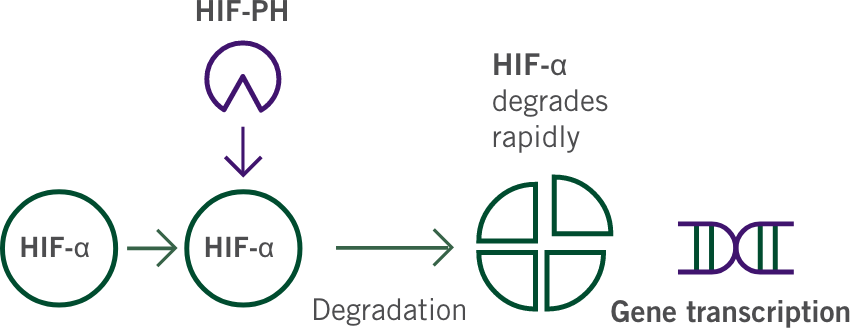
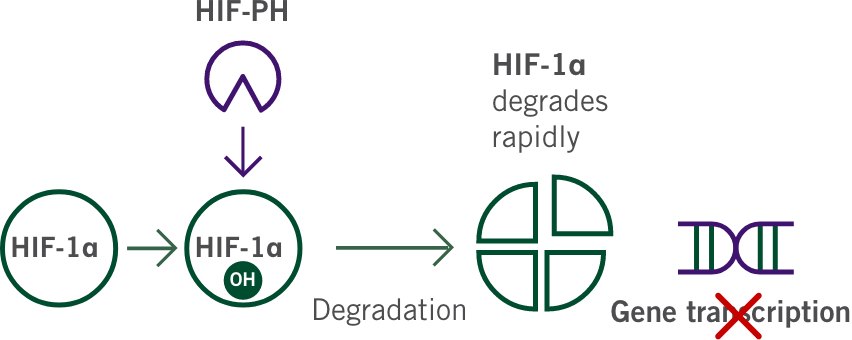
fix: dev3 client feedback

diff --git a/dev3/client/src/pages/hlf/hlf.tsx b/dev3/client/src/pages/hlf/hlf.tsx
@@ -20,10 +20,11 @@ export default function LivingAtHigh() {
       <Main>
         <Left>
           <Animation>
-            <h3>
+            <h3 className="doubleMarginBottom">
               The HIF (hypoxia-inducible factor) pathway plays a central role in
               erythropoiesis<sup>1,2</sup>
             </h3>
+            <h3>HIF-PH inhibition:</h3>
             <p>
               <ul>
                 <li>
@@ -40,14 +41,17 @@ export default function LivingAtHigh() {
             </p>
             <p>
               In normoxic conditions, the HIF pathway is not activated and the
-              HIF-α subunit is rapidly degraded via HIF prolyl-hydroxylase
+              HIF-1α subunit is rapidly degraded via HIF prolyl-hydroxylase
               (HIF-PH):<sup>3</sup>
             </p>
           </Animation>
           <Animation>
             <h3>Normal oxygen</h3>
             <div>
-              <img src={`${imgPath}/left-content.png`} className='leftContentImg'/>
+              <img
+                src={`${imgPath}/left-content.png`}
+                className="leftContentImg"
+              />
             </div>
           </Animation>
           <Animation className="smaller">
@@ -74,20 +78,20 @@ export default function LivingAtHigh() {
         </Left>
         <Right>
           <FlexRow>
-            <Left>
-              <Animation>
-                <h3>Hypoxia</h3>
-                <p>
-                  In hypoxic conditions, the HIF pathway is activated: the HIF-α
-                  subunit is not degraded, allowing dimerisation with the HIF-ß
-                  subunit and so inducing the transcription and translation of
-                  target hypoxia response genes involved in erythropoiesis,
-                  including:<sup>3-6</sup>
-                </p>
-              </Animation>
-            </Left>
-            <Right>
-              <Animation>
+            <Animation>
+              <h3>Hypoxia</h3>
+              <p>
+                In hypoxic conditions, the HIF pathway is activated: the HIF-1α
+                subunit is not degraded, allowing dimerisation with the HIF-1ß
+                subunit and so inducing the transcription and translation of
+                target hypoxia response genes involved in erythropoiesis,
+                including:<sup>3-6</sup>
+              </p>
+            </Animation>
+          </FlexRow>
+          <FlexRow>
+            <Animation>
+              <Left>
                 <div className="rectangle text1">Erythropoietin</div>
                 <img src={`${imgPath}/plus.png`} />
                 <div className="rectangle text2">
@@ -97,8 +101,8 @@ export default function LivingAtHigh() {
                 <div className="rectangle text3">
                   Genes involved in downregulating hepcidin levels
                 </div>
-              </Animation>
-            </Right>
+              </Left>
+            </Animation>
           </FlexRow>
           <FlexRow>
             <p>

diff --git a/dev3/client/src/pages/hlf/hlf.style.ts b/dev3/client/src/pages/hlf/hlf.style.ts
@@ -55,6 +55,10 @@ export const Main = styled.main`
     margin-bottom: calc(20px * var(--scale-y)); // 1rem;
   }
 
+  & .doubleMarginBottom {
+    margin-bottom: calc(40px * var(--scale-y)); // 1rem;
+  }
+
   & sup {
     font-size: x-small;
   }
@@ -97,9 +101,9 @@ export const Main = styled.main`
 
   & > div:last-child {
     & .rectangle {
-      background-size: calc(342px * var(--scale-x)) calc(183px * var(--scale-y)); // 342px 183px;
+      background-size: calc(280px * var(--scale-x)) calc(183px * var(--scale-y)); // 342px 183px;
       background-color: #40146e;
-      width: calc(342px * var(--scale-x));
+      width: calc(280px * var(--scale-x));
       height: calc(183px * var(--scale-y));
       display: flex;
       justify-content: center;
@@ -108,6 +112,11 @@ export const Main = styled.main`
       padding: 0 calc(20px * var(--scale-x)); // 0 1rem;
       animation: ${fadeUp} 1s forwards;
       opacity: 0;
+      font-family: "Trade Gothic LT Std Extended";
+      font-size: calc(24px * var(--scale-x));
+      line-height: calc(26px * var(--scale-y));
+      color: #fff;
+      text-align: center;
 
       & img {
         margin-left: calc(10px * var(--scale-x)); // 0.5rem;
@@ -131,23 +140,17 @@ export const Main = styled.main`
       gap: calc(40px * var(--scale-x)); // 2rem;
 
       & > div:first-child {
-        width: calc(520px * var(--scale-x)); // 26rem;
+        width: calc(921px * var(--scale-x)); // 26rem;
       }
 
       & > div:last-child {
-        font-family: "Trade Gothic LT Std Extended";
-        font-size: calc(26px * var(--scale-x)); // 1.3rem;
-        line-height: calc(29px * var(--scale-y)); // 1.45rem;
-
-        color: #fff;
-        text-align: center;
-
         & > div {
           gap: calc(10px * var(--scale-x)); // 0.5rem;
-          display: grid;
+          display: flex;
+          flex-direction: row;
           align-items: center;
           text-align: center;
-          margin-top: calc(60px * var(--scale-y)); // 3rem;
+          margin-top: calc(20px * var(--scale-y)); // 1rem;
 
           & img {
             margin: 0 auto;
@@ -199,7 +202,7 @@ export const Animation = styled.div`
   animation: ${fadeUp} 1s forwards;
 
   .leftContentImg {
-	  width: calc(852px * var(--scale-x));
-	  height: calc(331px * var(--scale-y));
+    width: calc(852px * var(--scale-x));
+    height: calc(331px * var(--scale-y));
   }
 `;

diff --git a/dev3/client/src/pages/hlf-pathway-in-action/hlf-pathway-in-action.tsx b/dev3/client/src/pages/hlf-pathway-in-action/hlf-pathway-in-action.tsx
@@ -5,32 +5,58 @@ import {
   Main,
   Left,
   Footer,
+  Iframe,
+  Card,
 } from "@/pages/hlf-pathway-in-action/hlf-pathway-in-action.style";
 import Nav from "@/components/nav/nav";
+import { Modal } from "@/components/modal/modal";
 
 export default function LivingAtHigh() {
+  const [pdfIsShown, setPdfIsShown] = React.useState(false);
   const imgPath = "./assets/hlf-pathway-in-action";
+
+  const showCartHandler = () => {
+    console.log("ff");
+    setPdfIsShown(true);
+  };
+
+  const hideCartHandler = () => {
+    setPdfIsShown(false);
+  };
+
   return (
-    <Section>
-      <Header>
-        <p>See the HIF pathway in action</p>
-      </Header>
-      <Main>
-        <video
-          poster={`${imgPath}/poster.png`}
-          src="https://mz-website.uat.finervision.com/assets/@cms/videos/test.mp4"
-		  playsInline
-          controls
-        ></video>
-      </Main>
-      <Footer>
-        <Left>
-          <div>
-            <img src={`${imgPath}/footer.png`} alt="" />
-          </div>
-        </Left>
-      </Footer>
-      <Nav back={-1} />
-    </Section>
+    <>
+      {pdfIsShown && (
+        <Modal onClose={() => hideCartHandler()}>
+          <Card>
+            <Iframe
+              src={`./assets/evrenzo-epar-product-information_en.pdf#toolbar=0`}
+            />
+            <button onClick={() => hideCartHandler()}>X</button>
+          </Card>
+        </Modal>
+      )}
+      <Section>
+        <Header>
+          <p>See the HIF pathway in action</p>
+        </Header>
+        <Main>
+          <video
+            poster={`${imgPath}/poster.png`}
+            src="https://mz-website.uat.finervision.com/assets/@cms/videos/test.mp4"
+            playsInline
+            controls
+          ></video>
+        </Main>
+        <Footer>
+          <Left>
+            <div onClick={showCartHandler}>
+              <img src={`${imgPath}/footer.png`} alt="" />
+            </div>
+          </Left>
+        </Footer>
+        <Nav back={-1} />
+      </Section>
+    </>
   );
 }

diff --git a/dev3/client/src/pages/hlf-pathway-in-action/hlf-pathway-in-action.style.ts b/dev3/client/src/pages/hlf-pathway-in-action/hlf-pathway-in-action.style.ts
@@ -46,8 +46,8 @@ export const Footer = styled.div`
     & div:first-child {
       & img {
         margin-bottom: calc(20px * var(--scale-y)); // 1rem;
-		width: calc(496px * var(--scale-x));
-		height: calc(108px * var(--scale-y));
+        width: calc(496px * var(--scale-x));
+        height: calc(108px * var(--scale-y));
       }
     }
   }
@@ -57,4 +57,41 @@ export const Left = styled.div`
   display: flex;
   flex-direction: column;
   justify-content: start;
+`;
+
+export const Card = styled.div`
+  aspect-ratio: 1 / 1;
+  width: calc(1417.94px * var(--scale-x)); // 70.897rem;
+  height: calc(1179.68px * var(--scale-y)); // 58.984rem;
+  position: relative;
+
+  & > button {
+    font-size: calc(40px * var(--scale-x)); // 2rem;
+    text-align: end;
+    display: flex;
+    justify-content: start;
+    align-items: start;
+    flex-direction: column;
+    width: calc(40px * var(--scale-x)); // 2rem;
+    height: calc(40px * var(--scale-y)); // 2rem;
+    padding: 0;
+    ${(Props) => `color: ${Props.color};`}
+    background-color: transparent;
+    background-repeat: no-repeat;
+    border: none;
+    cursor: pointer;
+    overflow: hidden;
+    outline: none;
+    position: absolute;
+    top: calc(40px * var(--scale-y)); // 2rem;
+    right: calc(40px * var(--scale-x)); // 2rem;
+  }
+`;
+
+export const Iframe = styled.iframe`
+  width: 100%;
+  height: 100%;
+  /* margin-top: var(--gap); */
+  border: none;
+  display: block;
 `;

diff --git a/dev3/client/src/components/modal/modal.style.ts b/dev3/client/src/components/modal/modal.style.ts
@@ -1,0 +1,47 @@
+import styled, { keyframes } from "styled-components";
+
+const SlideDown = keyframes`
+  from {
+	  opacity: 0;
+	  transform: translateY(-3rem);
+	}
+	to {
+	  opacity: 1;
+	  transform: translateY(0);
+	}
+`;
+
+export const Backdrop = styled.div`
+  position: fixed;
+  top: 0;
+  left: 0;
+  width: 100%;
+  height: 100vh;
+  z-index: 20;
+  background-color: rgba(0, 0, 0, 0.75);
+`;
+
+export const ModalOverLay = styled.div`
+  position: fixed;
+  top: 10vh;
+  left: 5%;
+  width: 90%;
+  padding-left: calc(20px * var(--scale-x)); // 1rem;
+  padding-right: calc(20px * var(--scale-x)); // 1rem;
+  padding-top: calc(20px * var(--scale-y)); // 1rem;
+  padding-bottom: calc(20px * var(--scale-y)); // 1rem;
+  border-radius: 14px;
+  box-shadow: 0 2px 8px rgba(0, 0, 0, 0.25);
+  justify-content: center;
+  align-items: center;
+  display: flex;
+  z-index: 30;
+  animation: ${SlideDown} 300ms ease-out forwards;
+
+  & > .content {
+    padding-left: calc(20px * var(--scale-x)); // 1rem;
+    padding-right: calc(20px * var(--scale-x)); // 1rem;
+    padding-top: calc(20px * var(--scale-y)); // 1rem;
+    padding-bottom: calc(20px * var(--scale-y)); // 1rem;
+  }
+`;

diff --git a/dev3/client/src/components/app/app.tsx b/dev3/client/src/components/app/app.tsx
@@ -24,18 +24,18 @@ export default function App() {
     };
   }, []);
 
-  React.useEffect(() => {
-    const delay = 60;
-    window.addEventListener("touchstart", handleUserTouch);
-    let timer1 = setTimeout(() => {
-      navigate("/");
-    }, delay * 1000);
+//   React.useEffect(() => {
+//     const delay = 60;
+//     window.addEventListener("touchstart", handleUserTouch);
+//     let timer1 = setTimeout(() => {
+//       navigate("/");
+//     }, delay * 1000);
 
-    return () => {
-      clearTimeout(timer1);
-      window.removeEventListener("touchstart", handleUserTouch);
-    };
-  }, [handleUserTouch]);
+//     return () => {
+//       clearTimeout(timer1);
+//       window.removeEventListener("touchstart", handleUserTouch);
+//     };
+//   }, [handleUserTouch]);
 
   React.useEffect(() => {
     function onResize() {

diff --git a/dev3/client/src/components/modal/modal.tsx b/dev3/client/src/components/modal/modal.tsx
@@ -1,0 +1,27 @@
+import React from "react";
+import ReactDOM from "react-dom";
+import { Backdrop, ModalOverLay } from "@/components/modal/modal.style";
+
+const portalElement = document.getElementById("overlay-root");
+
+type OverLayComponentProps = {
+  onClose: () => void;
+  children?: any;
+};
+
+export const Modal = ({ onClose, children }: OverLayComponentProps) => {
+  return (
+    <>
+      {ReactDOM.createPortal(
+        <Backdrop onClick={onClose} />,
+        portalElement
+      )}
+      {ReactDOM.createPortal(
+        <ModalOverLay onClick={onClose}>
+          <div className="content">{children}</div>
+        </ModalOverLay>,
+        portalElement
+      )}
+    </>
+  );
+};

diff --git a/dev3/client/public/index.html b/dev3/client/public/index.html
@@ -15,6 +15,7 @@
     <title>App</title>
   </head>
   <body>
+	<div id="overlay-root"></div>
     <div id="root"></div>
   </body>
 </html>
